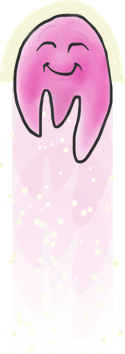
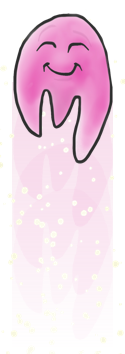
+ let's gradient like it's 2008

Changed region(s): [[0.0, 0.0, 0.984, 0.2486]]

diff --git a/stylesheets/specific.css b/stylesheets/specific.css
@@ -2,7 +2,7 @@
 
 .grid_2.white { background-color: #f5f5ea; }
 
-.header { width: 100%; height: 70px; background-color: #199399; background: -moz-radial-gradient(50% 100%, circle, #45bfbe 0px, #199399 600px); background: -webkit-gradient(radial, 50% 100%, 0, 50% 100%, 600, from(#45bfbe), to(#199399)); }
+.header { width: 100%; height: 70px; background-color: #199399; background: -moz-radial-gradient(50% 100%, circle, beige 90px, #199399 600px); background: -webkit-gradient(radial, 50% 100%, 90, 50% 100%, 600, from(beige), to(#199399)); }
 
 .footer { background-image: url("../images/picky-small.png"); background-repeat: no-repeat; background-position: center; width: 46px; height: 30px; position: fixed; bottom: -19px; left: 47%; }
 

diff --git a/_source/stylesheets/specific.sass b/_source/stylesheets/specific.sass
@@ -8,8 +8,8 @@
   :width 100%
   :height 70px
   :background-color #199399
-  :background -moz-radial-gradient(50% 100%, circle, #45bfbe 0px, #199399 600px)
-  :background -webkit-gradient(radial, 50% 100%, 0, 50% 100%, 600, from(#45bfbe), to(#199399))
+  :background -moz-radial-gradient(50% 100%, circle, beige 90px, #199399 600px)
+  :background -webkit-gradient(radial, 50% 100%, 90, 50% 100%, 600, from(beige), to(#199399))
   
 .footer
   :background-image url('../images/picky-small.png')

diff --git a/stylesheets/specific.sass b/stylesheets/specific.sass
@@ -8,8 +8,8 @@
   :width 100%
   :height 70px
   :background-color #199399
-  :background -moz-radial-gradient(50% 100%, circle, #45bfbe 0px, #199399 600px)
-  :background -webkit-gradient(radial, 50% 100%, 0, 50% 100%, 600, from(#45bfbe), to(#199399))
+  :background -moz-radial-gradient(50% 100%, circle, beige 90px, #199399 600px)
+  :background -webkit-gradient(radial, 50% 100%, 90, 50% 100%, 600, from(beige), to(#199399))
   
 .footer
   :background-image url('../images/picky-small.png')
